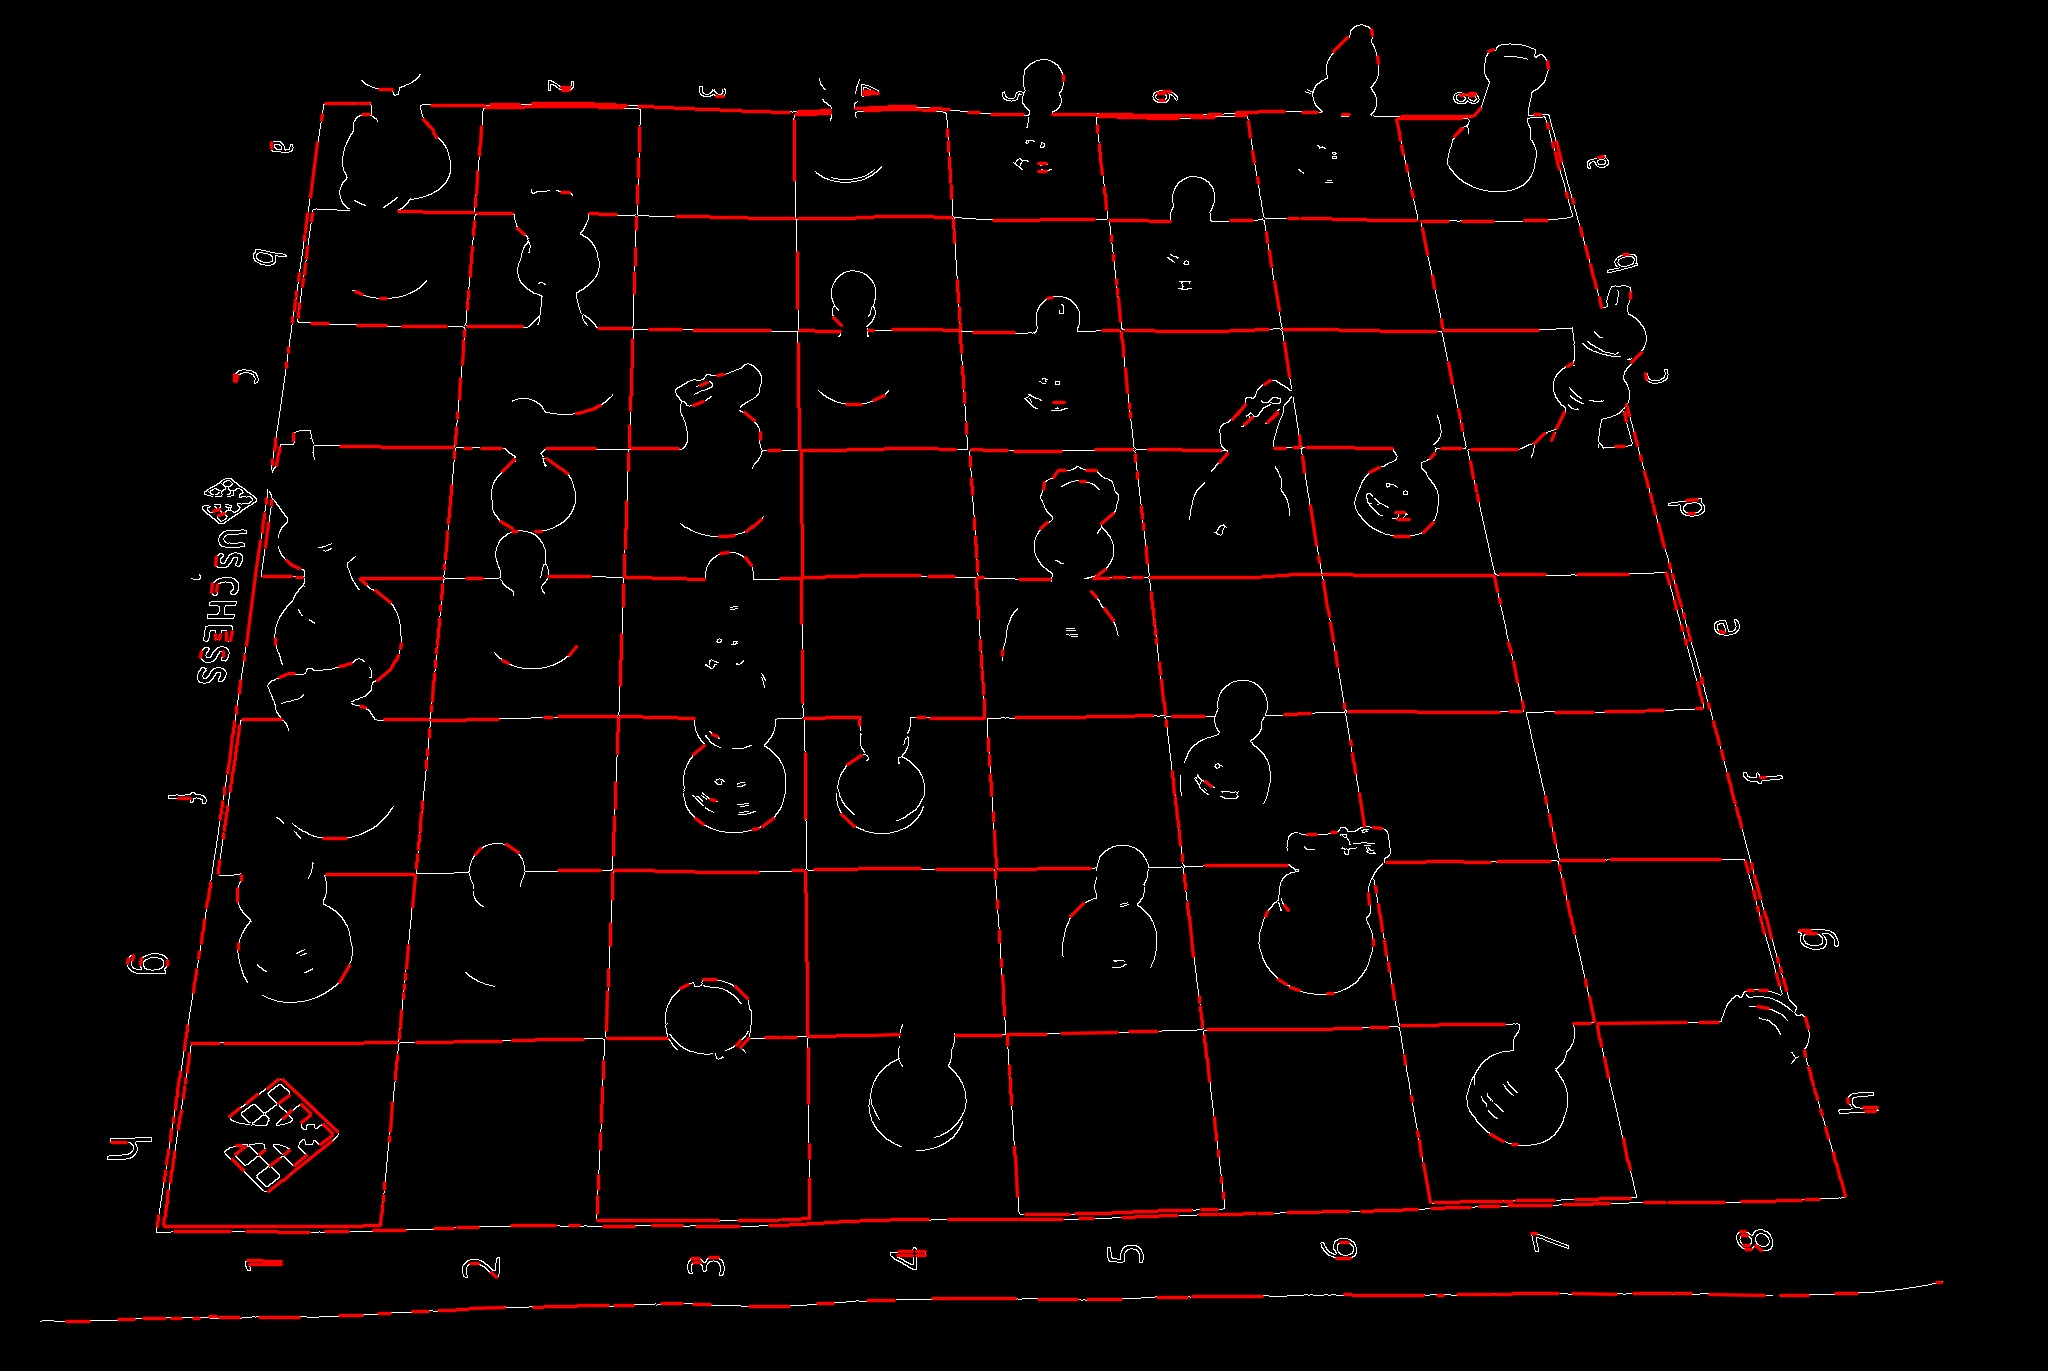
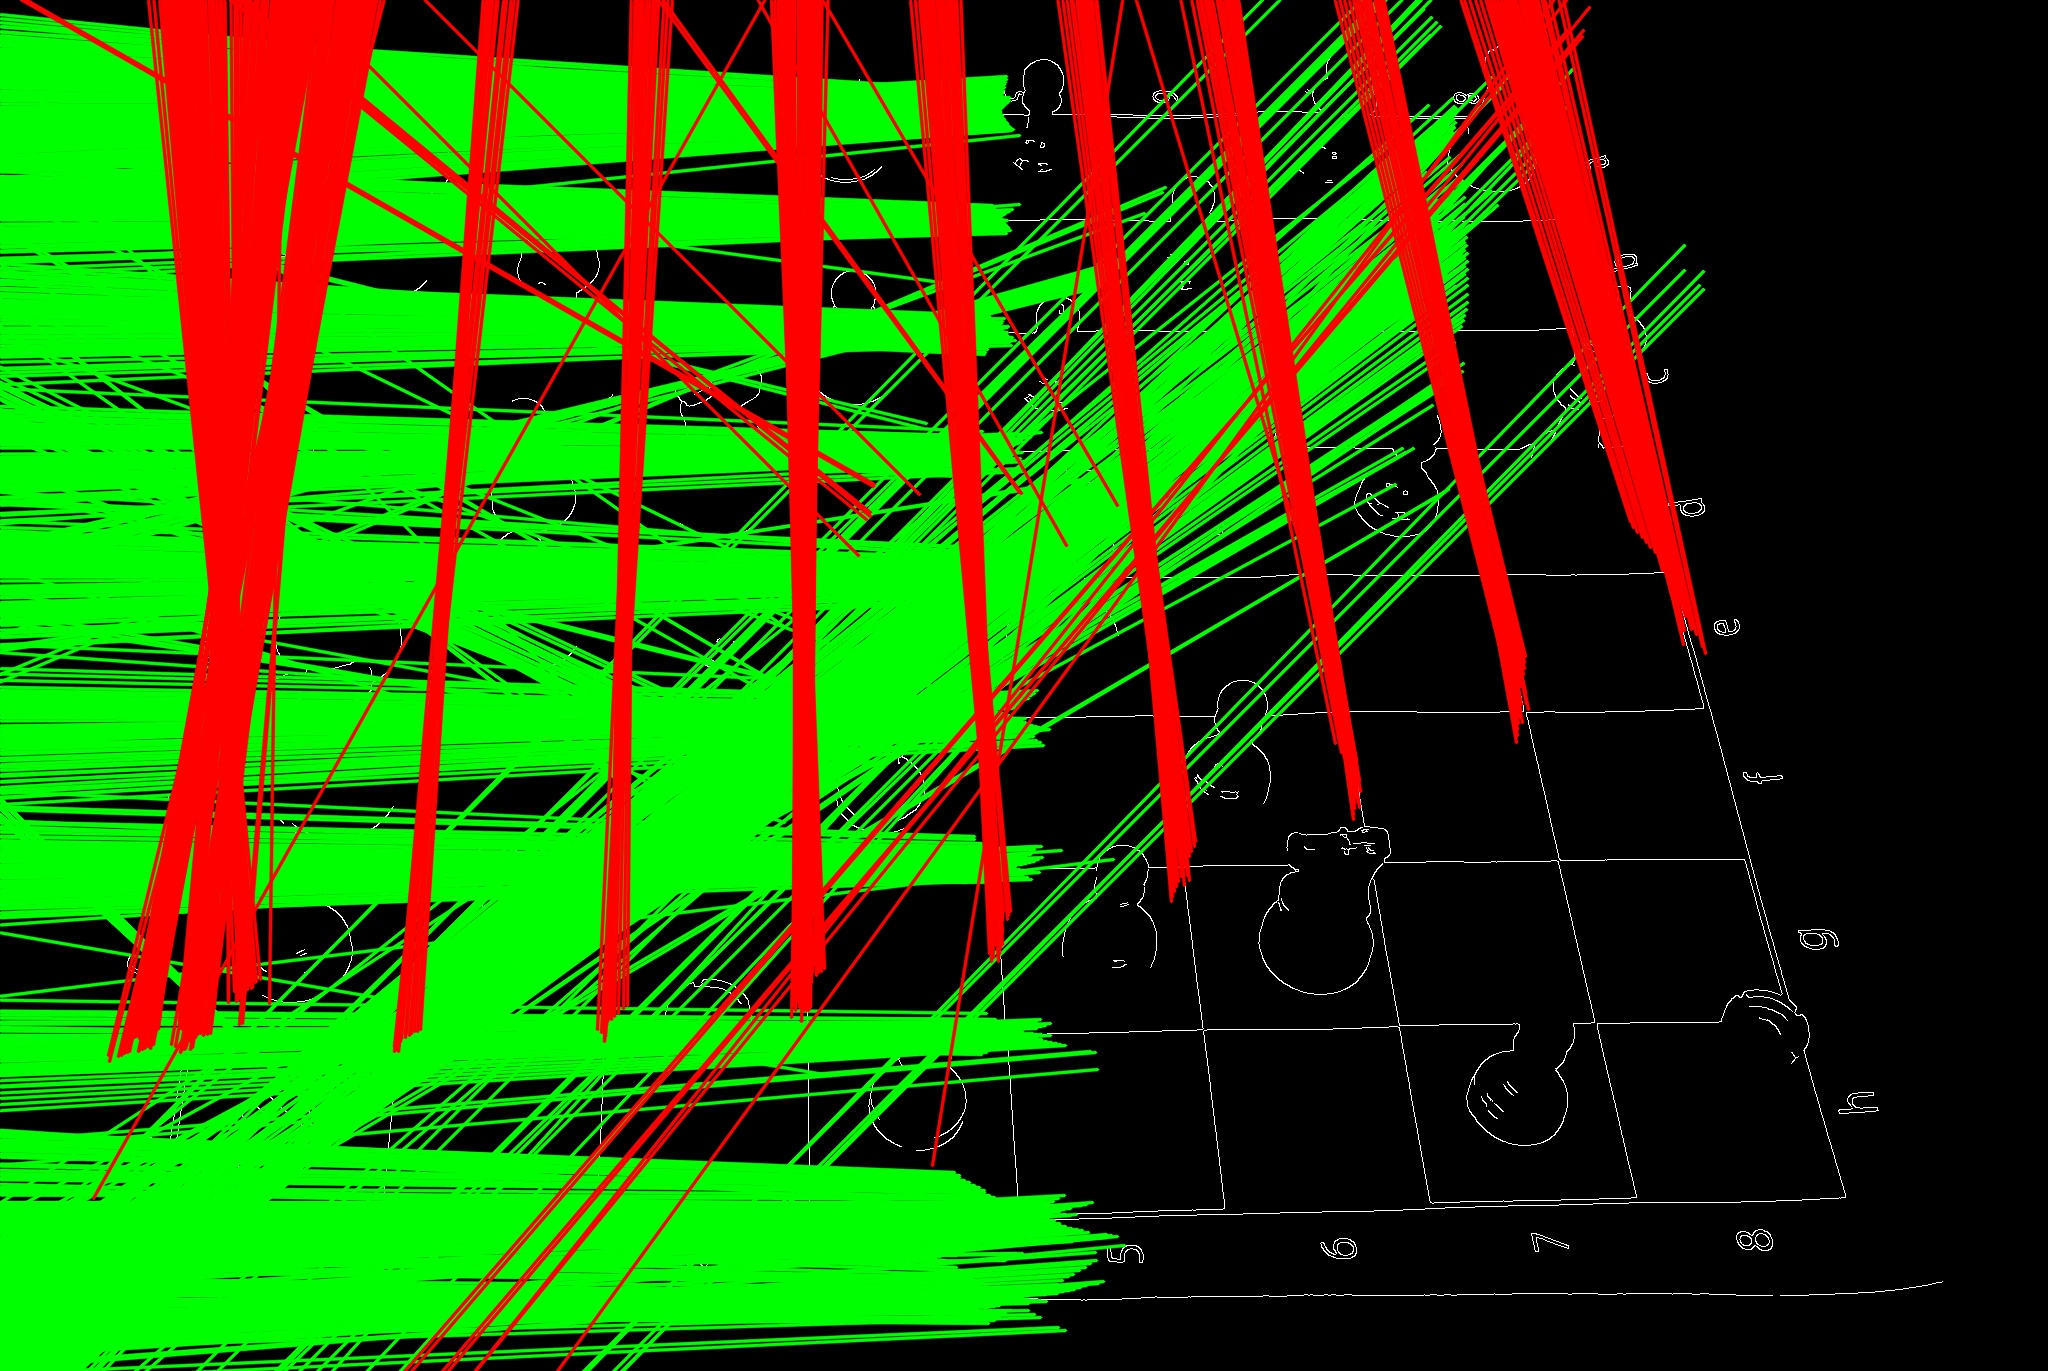
progress in line separation

diff --git a/board_recognition/board_recognition.py b/board_recognition/board_recognition.py
@@ -24,49 +24,160 @@ def process_board(orig_img):
 
     #apply Hough line Transform
     # explicação deste algoritmo: https://docs.opencv.org/3.4/d9/db0/tutorial_hough_lines.html
-    # obter lista de  extremos (xStart,yStart,xEnd,yEnd) de cada linha obtida
-
-    #Versão com HoughLinesP
-    linesP = cv2.HoughLinesP(
+    # obter lista de (r,ang) de cada linha obtida
+    lines = cv2.HoughLines(
                             canny_edge_filter_img, # input edge image
                             1, # distance resolution in pixels
                             np.pi/ Params.hough_angle_res,
                             Params.hough_min_points_line,
-                            None, # vector to store parameters??
-                            Params.hough_min_line_length,
-                            Params.hough_max_line_gap_join 
+                            np.array([]),
+                            0,
+                            0,
                         )
+    
+    lines = lines.squeeze() # remover lista a mais que vem de HoughLines
+    lines = fix_negative_rho_in_hesse_normal_form(lines)
 
-    if linesP is None:
+    if lines is None:
         print('>> No lines detected in Hough Transform ?!')
-    
-    for iterLines in range(0, len(linesP)):
-        lineValues = linesP[iterLines][0]
-        cv2.line(cdst, (lineValues[0], lineValues[1]), (lineValues[2], lineValues[3]), (0,0,255), 2, cv2.LINE_AA)
 
-    #Versão com houghLines
-    # lines = cv2.HoughLines(
-    #                         canny_edge_filter_img, # input edge image
-    #                         1, # distance resolution in pixels
-    #                         np.pi/ Params.hough_angle_res,
-    #                         Params.hough_min_points_line,
-    #                         None, # vector to store parameters??
-    #                         0, # valores default
-    #                         0 # valores default
-    #                     )
-
-    # if lines is None:
-    #     print('>> No lines detected in Hough Transform ?!')
+    # k-means
+    horiz_lines, vert_lines = get_line_clusters_kmeans(lines, Params.kmeans_cluster_n)
     
-    # for iterLines in range(0, len(lines)):
-    #     rho = lines[iterLines][0][0]
-    #     theta = lines[iterLines][0][1]
-    #     a = math.cos(theta)
-    #     b = math.sin(theta)
-    #     x0 = a * rho
-    #     y0 = b * rho
-    #     pt1 = (int(x0 + 50*(-b)), int(y0 + 50*(a)))
-    #     pt2 = (int(x0 - 50*(-b)), int(y0 - 50*(a)))
-    #     cv2.line(cdst, pt1, pt2, Params.hough_lines_color, 1, cv2.LINE_AA)
+    intersections = calc_lines_intersections(lines)
+    # line_clusters = cluster_similar_lines(lines,intersections)
+
+    # for i, cluster in enumerate(line_clusters):
+    #     cdst = print_lines(cdst, cluster, (0 , 0, i * (255 / 10)))
+    cdst = print_lines(cdst, horiz_lines, Params.color_green)
+    cdst = print_lines(cdst, vert_lines, Params.color_red)
+    cdst = print_points(cdst, intersections, Params.color_blue)
 
     return cdst
+
+# obtain separated vertical and horizontal lines with kmeans
+# muito sucestível a extremos acho -> daí os maus resultados?
+def get_line_clusters_kmeans(lines, clusters=2):
+    angles = lines[:,1].reshape(-1,1) # extrair angulo de cada par e depois meter em 2D array de tamanho automaticamente calculado (-1) em que cada lista tem tamanho 1
+
+    kmeans = KMeans(n_clusters=clusters,random_state=0).fit(angles)
+    cluster_labels = kmeans.labels_
+    cluster_centers = kmeans.cluster_centers_
+
+    calc_orientation = np.abs(cluster_centers - np.pi/2)
+    horiz_label = np.argmin(calc_orientation)
+    vert_label = 1 - horiz_label
+    
+    horiz_lines = lines[cluster_labels == horiz_label]
+    vert_lines = lines[cluster_labels == vert_label]
+
+    # print("Horiz label: ", horiz_label, " lines: ", horiz_lines)
+    # print("Vert label", vert_label, " lines:", vert_lines)
+
+    return horiz_lines, vert_lines
+
+def get_line_clusters_agglomerative(lines, clusters=2):
+    angles = lines[:,1]
+
+    #pré-computar distÂncias de ângulos entre cada 2 linhas, para usar em agglomerative clustering
+    angle_dist_func = lambda ang1, ang2 : min(abs(ang1 - ang2), 2 * np.pi - abs(ang1 - ang2)) # func de comparação de ângulos
+    dist_matrix = squareform(pdist(angles[:, np.newaxis], metric=angle_dist_func)) # angles[:, np.newaxis] -> separada cada ângulo em coluna diferente -> pdist calcula dists entre cada dois elems de diferentes colunas -> squareform transforma em matriz quadrâtica triangular
+
+    #agglomerative clustering
+    agglom = AgglomerativeClustering(n_clusters=clusters, metric='precomputed', linkage='average')
+    cluster_labels = agglom.fit_predict(dist_matrix)
+    
+    cluster_means = np.array([np.mean(angles[cluster_labels == i]) for i in range(clusters)])
+    horiz_label = np.argmin(np.abs(cluster_means - np.pi/2))
+    vert_label = 1 - horiz_label
+
+    horiz_lines = lines[cluster_labels == horiz_label]
+    vert_lines = lines[cluster_labels == vert_label]
+
+    return horiz_lines, vert_lines
+
+# a representação polar de linhas permite que haja dois valores de radius,theta que produzem a mesma reta -> rho,theta ou -rho,theta - pi
+# para os cálculos darem corretamente ao separar retas em horiz e vertical por angulos, temos de garantir que têm o mesmo raio positivo, para ordenar 
+def fix_negative_rho_in_hesse_normal_form(lines: np.ndarray) -> np.ndarray:
+    lines = lines.copy()
+    neg_rho_mask = lines[..., 0] < 0 # boolean mask para identificar linhas cujo radius é negativo
+    lines[neg_rho_mask, 0] = - lines[neg_rho_mask, 0] # nessas linhas, trocar o sinal de radius
+    lines[neg_rho_mask, 1] = lines[neg_rho_mask, 1] - np.pi # nessas linhas, fazer angulo - pi
+    return lines
+
+#obter pontos (x,y) de interseção de retas em formato polar
+def calc_lines_intersections(lines):
+    vect_cartesian_lines = polar_to_cartesian_lines_vectorized(lines)
+    cartesian_intersect_points = find_intersections_vectorized(vect_cartesian_lines)
+
+    return cartesian_intersect_points
+
+# devolve [[A1 B1 C1],...], tendo que func geometrica de cada func é Ax + By = C
+def polar_to_cartesian_lines_vectorized(polar_lines):
+    thetas = polar_lines[:, 1]
+    rhos = polar_lines[:, 0]
+    
+    A = np.cos(thetas)
+    B = np.sin(thetas)
+    C = rhos
+    
+    return (A,B,C)
+
+def find_intersections_vectorized(cartesian_lines):
+    A,B,C = cartesian_lines
+
+    # Create matrices for pairwise computation
+    A1, A2 = np.meshgrid(A, A)
+    B1, B2 = np.meshgrid(B, B)
+    C1, C2 = np.meshgrid(C, C)
+    
+    # Compute determinants
+    det = A1 * B2 - A2 * B1
+    
+    # Avoid division by zero for parallel lines
+    mask = det != 0
+    
+    x = np.zeros_like(det, dtype=np.float64)
+    y = np.zeros_like(det, dtype=np.float64)
+    
+    x[mask] = (B2[mask] * C1[mask] - B1[mask] * C2[mask]) / det[mask]
+    y[mask] = (A1[mask] * C2[mask] - A2[mask] * C1[mask]) / det[mask]
+    
+    # Mask upper triangle and diagonal to avoid duplicate calculations
+    upper_triangle_mask = np.triu(mask, k=1)
+    
+    intersections = np.column_stack((x[upper_triangle_mask], y[upper_triangle_mask]))
+    
+    return intersections
+
+def cluster_similar_lines(lines, intersections):
+    clusters = DBSCAN(eps=Params.line_clusters_eps, min_samples=8).fit(intersections)
+    clusters_labels = clusters.labels_
+
+    line_groups = {}
+    for idx, label in enumerate(clusters_labels):
+        if label == -1:
+            continue  # Ignore noise points
+        if label not in line_groups:
+            line_groups[label] = []
+        line_groups[label].append(lines[idx])
+    return line_groups
+
+def print_points(img, points, color):
+    for x,y in points:
+
+        cv2.circle(img, (int(x),int(y)),radius=0, color=color, thickness=-1)
+    return img
+
+def print_lines(img, lines, color):
+    for i in range(0, len(lines)):
+        rho = lines[i][0]
+        theta = lines[i][1]
+        a = math.cos(theta)
+        b = math.sin(theta)
+        x0 = a * rho
+        y0 = b * rho
+        pt1 = (int(x0 + 1000*(-b)), int(y0 + 1000*(a)))
+        pt2 = (int(x0 - 1000*(-b)), int(y0 - 1000*(a)))
+        cv2.line(img, pt1, pt2, color, 2, cv2.LINE_AA)
+    return img

diff --git a/board_recognition/parameters.py b/board_recognition/parameters.py
@@ -10,9 +10,16 @@ bilat_sample_diameter = 7 # Diameter of each pixel neighborhood that is used dur
 #hough_transform
 
 hough_angle_res = 720.0 # angle resolution in radians
-hough_min_points_line = 50 # min number of votes for valid line (min de pontos a intersetar nas sinuosoidais)
-hough_min_line_length = 5 # min allowed length of line
-hough_max_line_gap_join= 0 # max allowed gap between line for joining them
+hough_min_points_line = 75 # min number of votes for valid line (min de pontos a intersetar nas sinuosoidais)
 
-#draw hough_lines
-hough_lines_color = (0,0,255) # red
+
+
+#kMeans
+kmeans_cluster_n = 2
+
+#separate line clusters
+line_clusters_eps = 8
+#draw objects
+color_red = (0,0,255)
+color_green = (0,255,0)
+color_blue = (255,0,0)

diff --git a/board_recognition/includes.py b/board_recognition/includes.py
@@ -4,5 +4,6 @@ import math
 # import matplotlib.pyplot as plt
 from pathlib import Path
 import random
-# from sklearn.cluster import DBSCAN
+from sklearn.cluster import DBSCAN, KMeans, AgglomerativeClustering
 import itertools
+from scipy.spatial.distance import pdist, squareform
